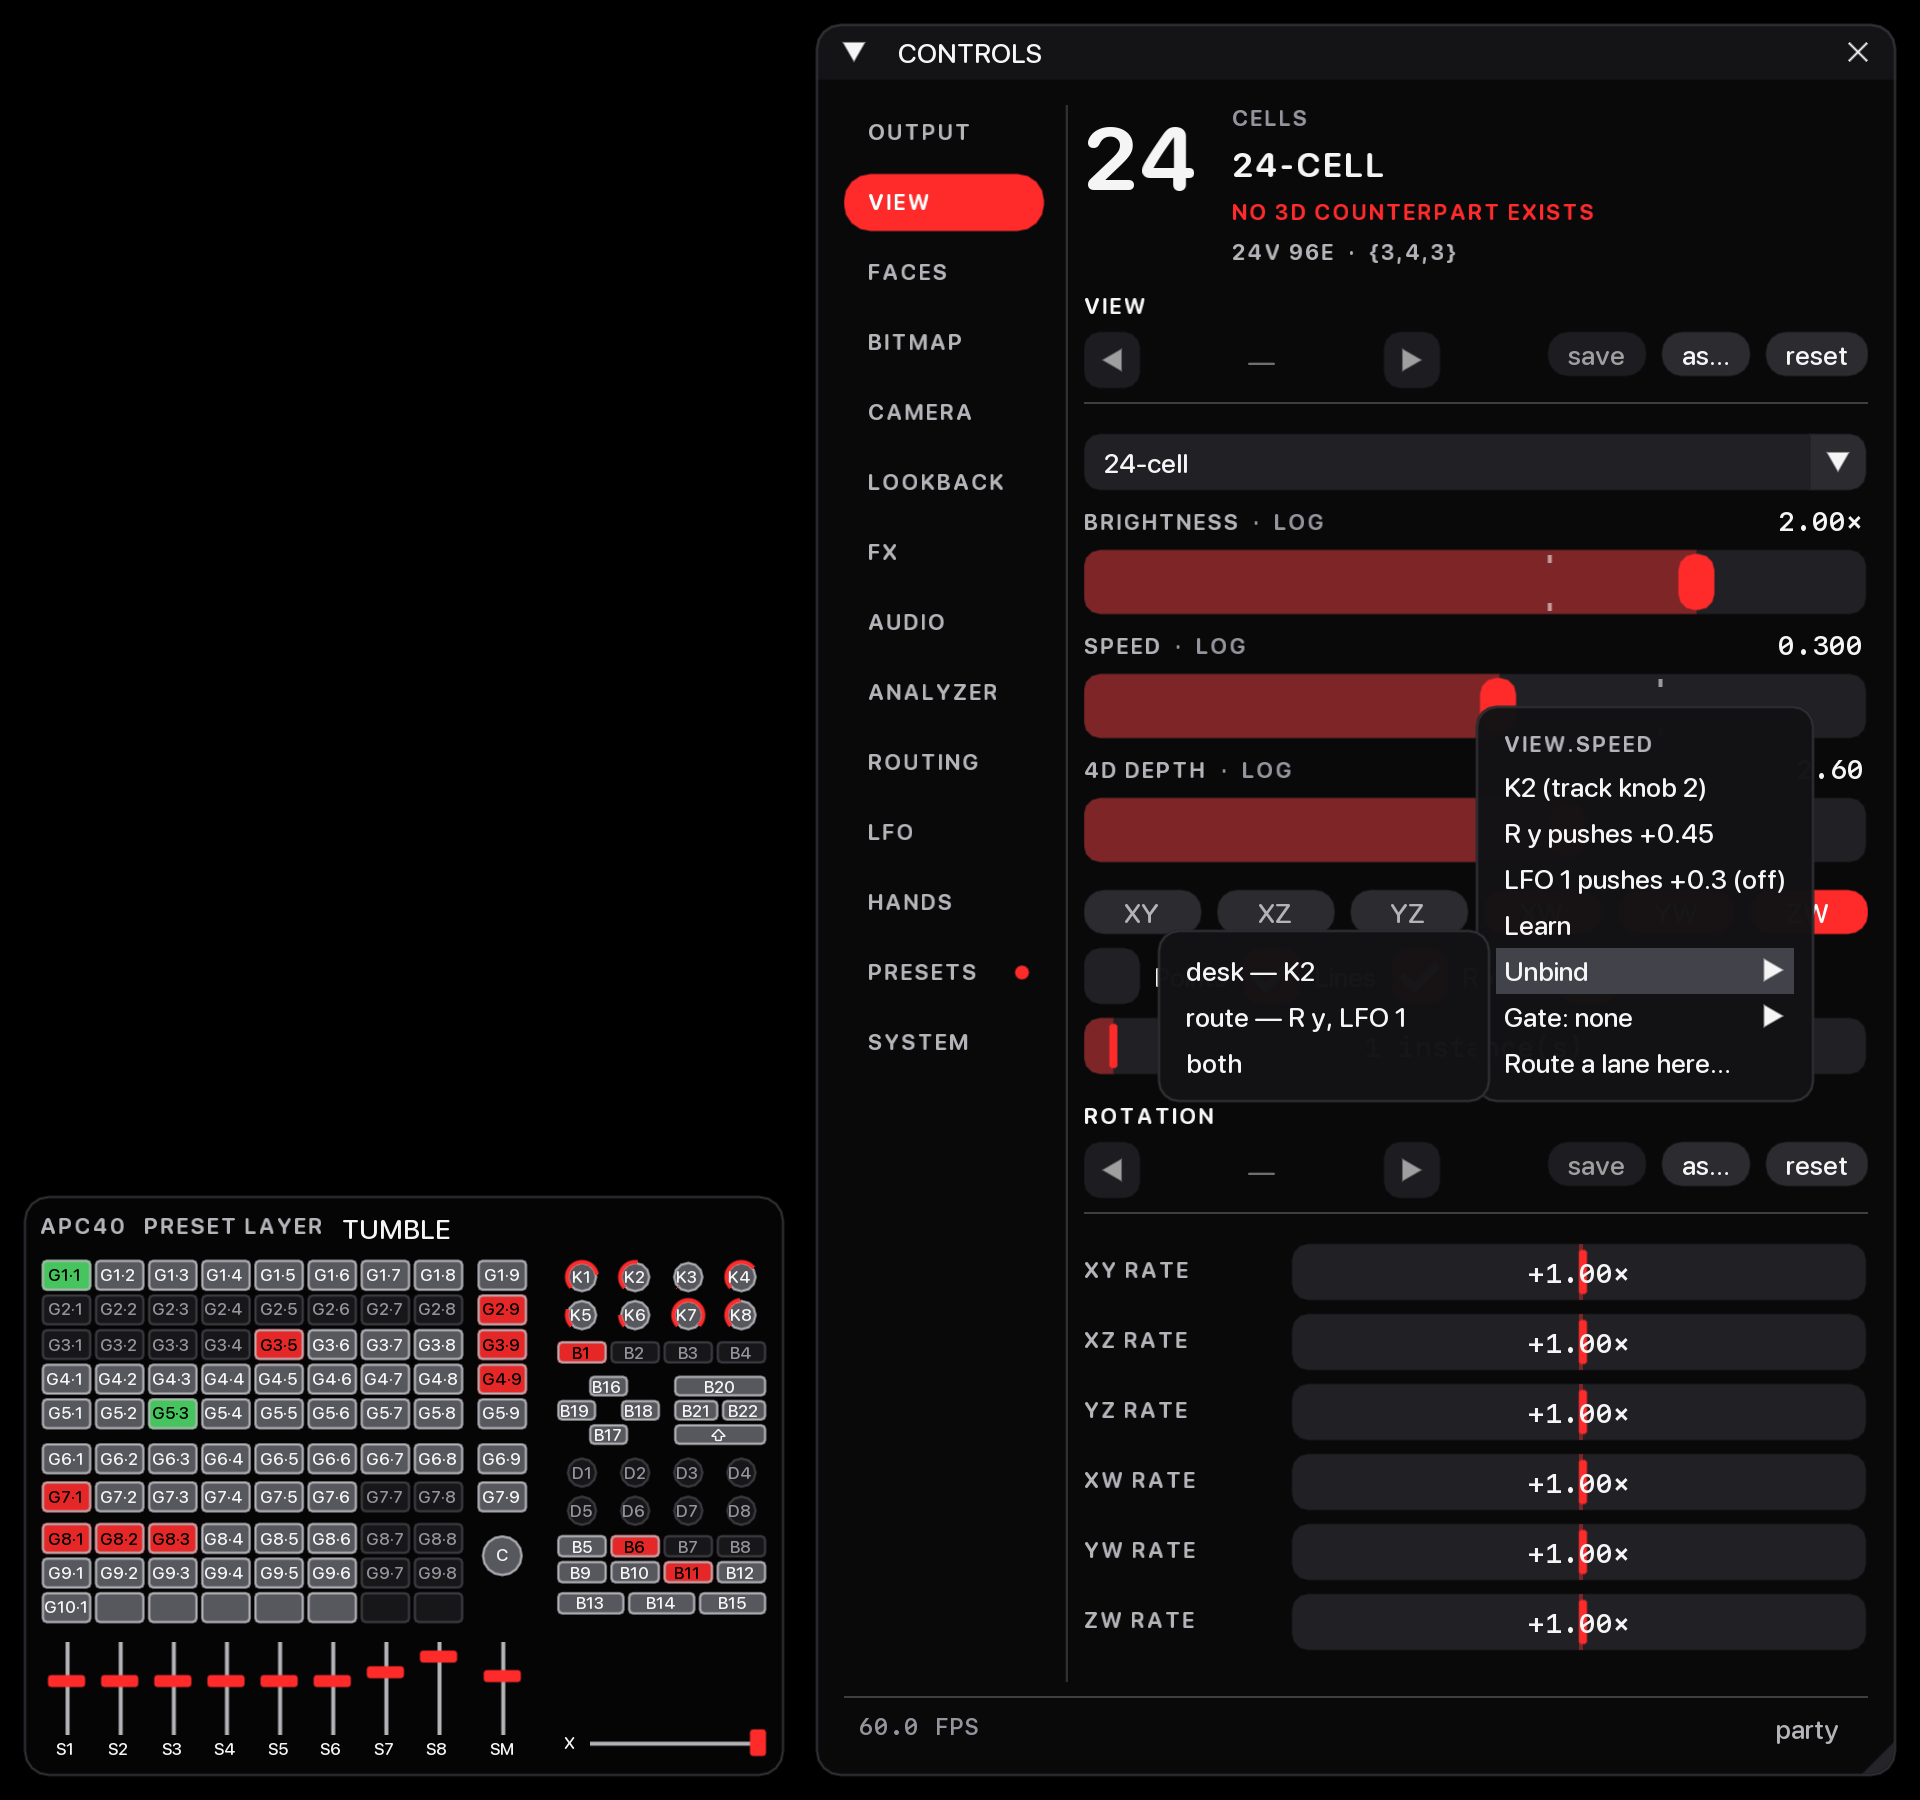
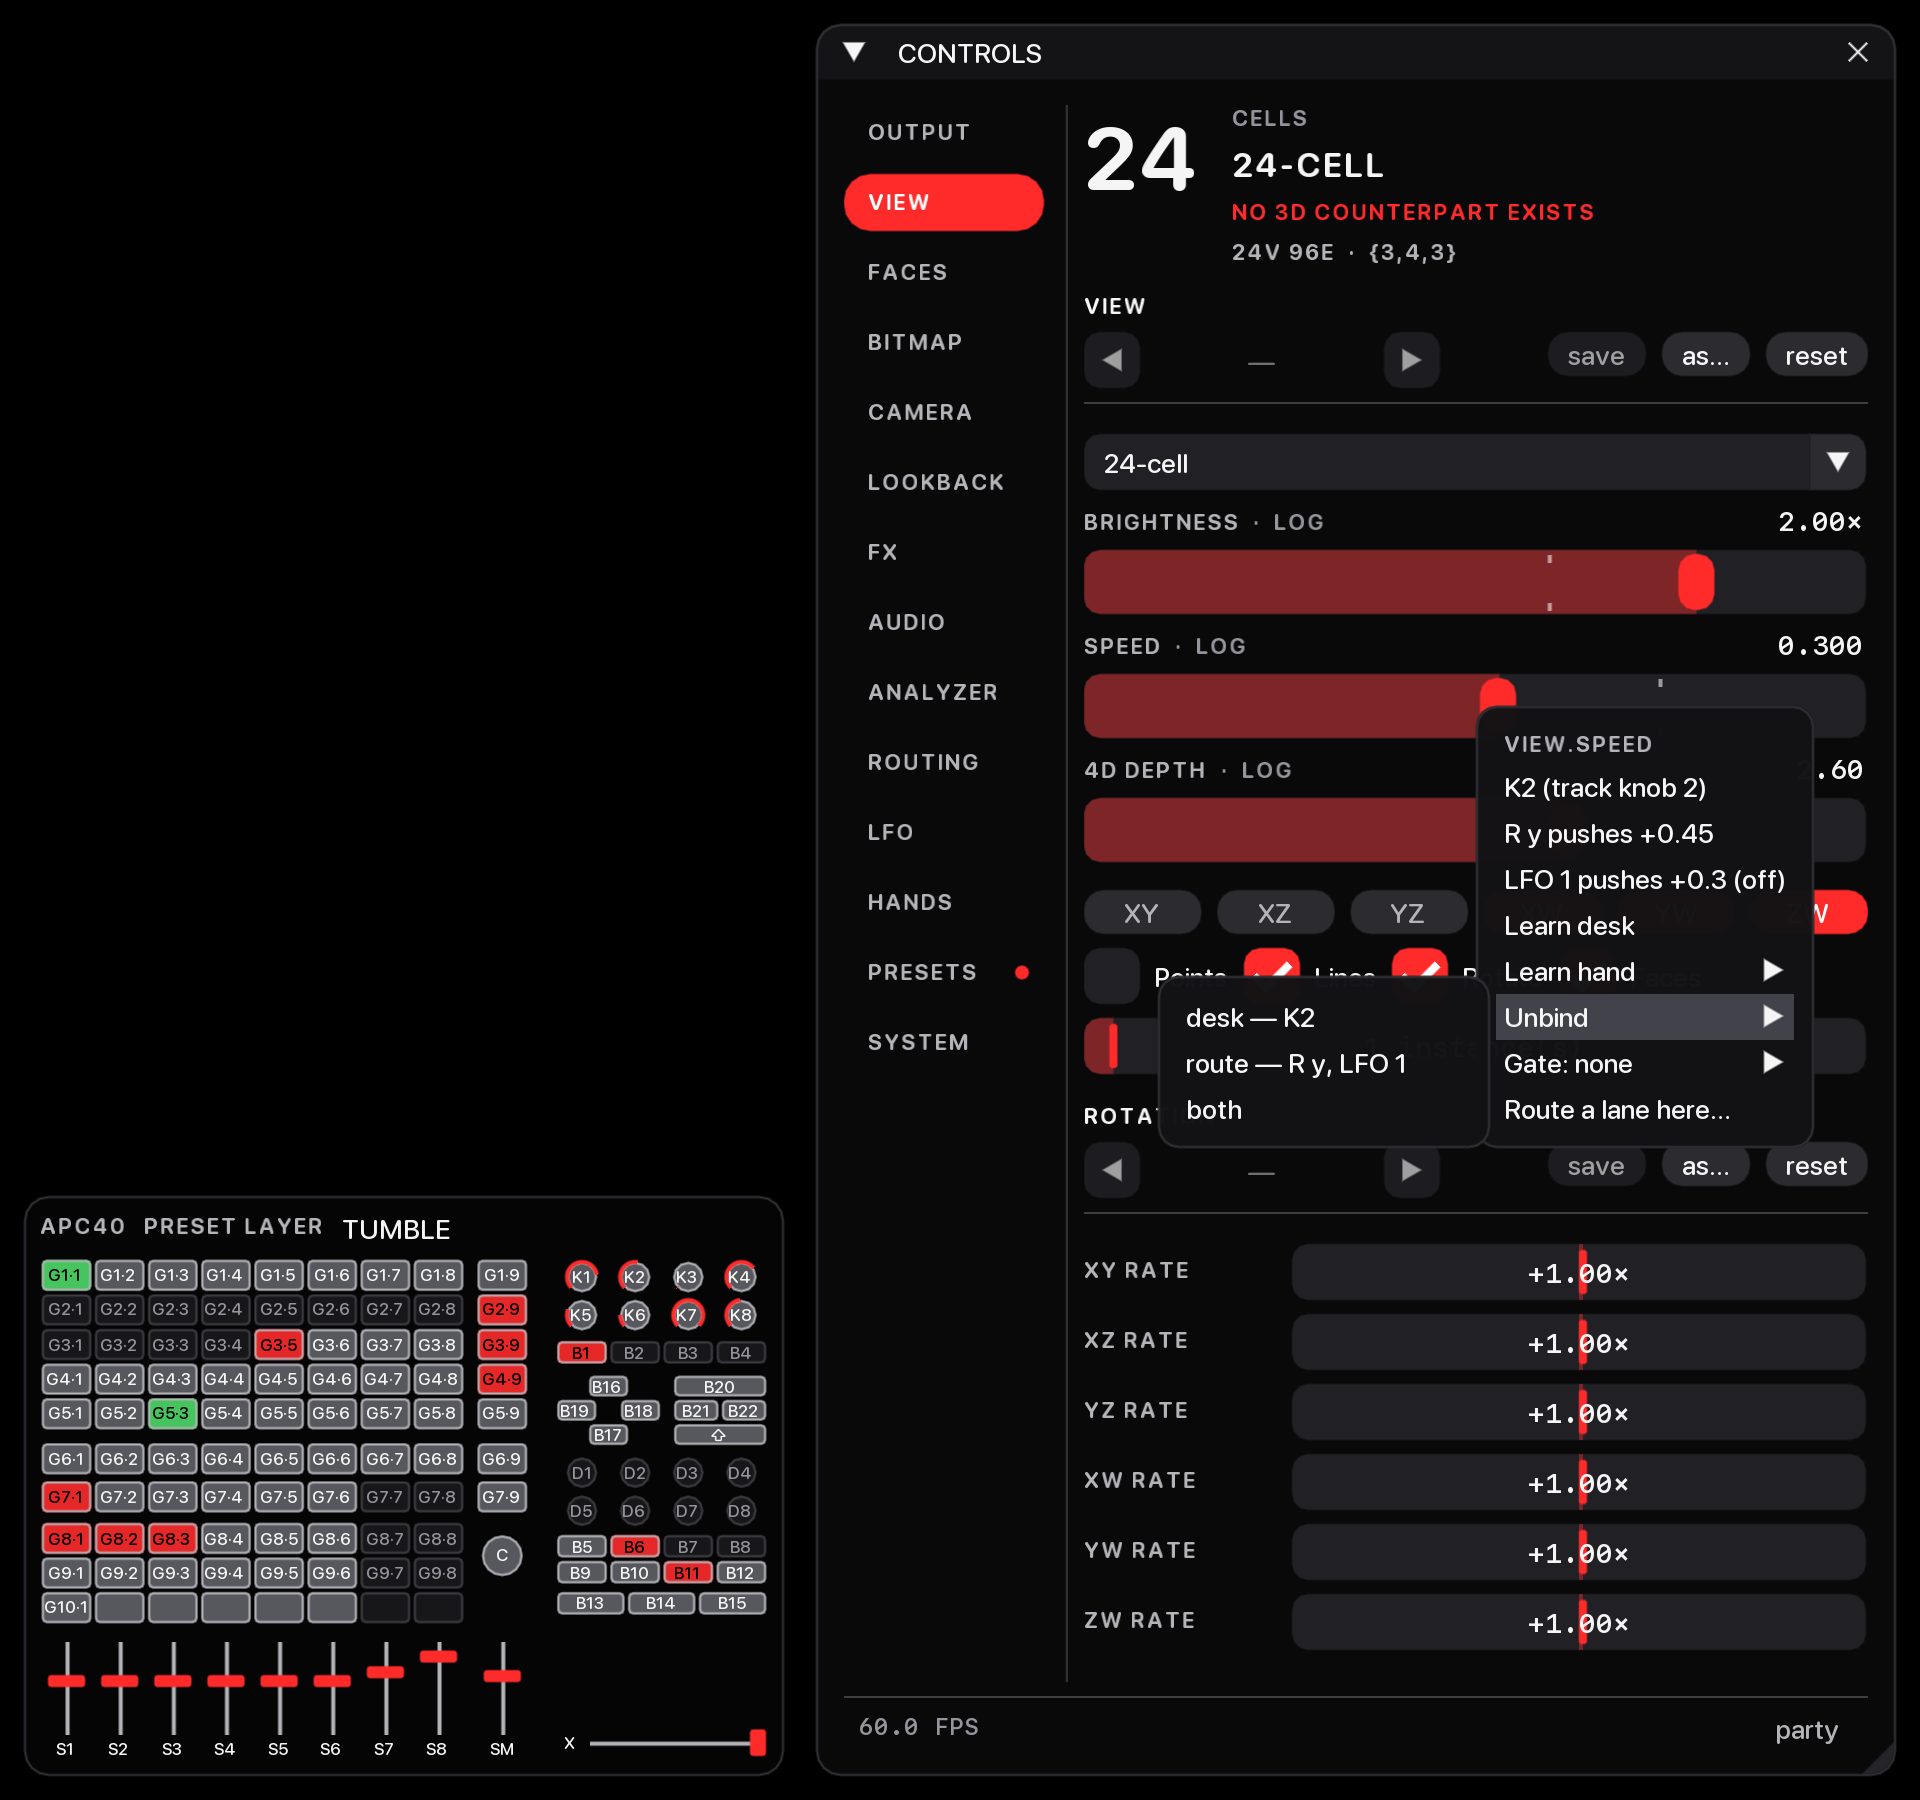
Plan 17 WP2: the Learn demo — the wrong-hand cases replayed, the desk through a learn, the menu
tools/learn_demo.py learn and tools/learn_shot.py learn / armed; the WP1 transcript and picture regenerated with the new Learn items.

Claude-Session: https://claude.ai/code/session_01Hj4u4h4MoQigGjJMCKHS42

Changed region(s): [[0.7188, 0.4978, 0.9375, 0.6222], [0.5938, 0.5289, 0.7188, 0.6222]]

diff --git a/hyperspace-python/tools/learn_demo.py b/hyperspace-python/tools/learn_demo.py
@@ -13,6 +13,12 @@ answered for it, so nothing here is a real right-click.
            route — the menu's lines, Unbind by kind and both, Ctrl+Z
            putting all of it back, a fader's param offering no Unbind —
            and the same again with no MIDI adapter on the panel.
+  learn    plan 17 WP2: the menu's Learn desk / Learn hand ▸ left / right;
+           the session's two wrong-hand cases replayed with a bare learn
+           and with "Learn hand ▸ left"; a knob bump during a hand learn
+           doing its own job; a fader and SHIFT working through a desk
+           learn; the global layer refusing and leaving it armed — with
+           the footer's line at each step.
 
 It always runs on a fresh temp home of its own (`undo_demo` sets
 `HYPERSPACE_HOME` before anything reads it): it cannot touch ~/Hyperspace.
@@ -26,6 +32,7 @@ from __future__ import annotations
 
 import sys
 from pathlib import Path
+from types import SimpleNamespace
 
 import undo_demo as demo
 
@@ -33,8 +40,9 @@ import pytest
 from imgui_bundle import imgui, implot
 from test_ui_shell import menu as read_menu
 
-from hyperspace import undo
+from hyperspace import learn, undo
 from hyperspace.library import PRESETS
+from hyperspace.params import Kind
 from hyperspace.routing import Binding
 from hyperspace.ui import Panel, apply_style, load_fonts
 
@@ -150,9 +158,166 @@ def unbind_demo() -> None:
     say(f"   the two transcripts are the same, line for line: {first == second}")
 
 
+def footer(r, panel) -> str:
+    """The footer's message slot as the panel draws it now (one frame of
+    the open page; the panel's clock is the demo's), with its colour."""
+    from hyperspace import ui
+
+    ui.time = SimpleNamespace(monotonic=lambda: r.t)         # MESSAGE_S in the demo's time
+    names = {(round(c.x, 3), round(c.y, 3)): n
+             for n, c in (("red", ui.RED), ("warning", ui.WARN), ("faint", ui.FAINT))}
+    seen: list[str] = []
+    real = imgui.text_colored
+
+    def text_colored(col, s):
+        if s.startswith("·  ") and not s.startswith("·  dim"):
+            seen.append(f"{s}   [{names.get((round(col.x, 3), round(col.y, 3)), '?')}]")
+        return real(col, s)
+    imgui.text_colored = text_colored
+    try:
+        imgui.new_frame()
+        panel.draw(demo.DT, 60.0)
+        imgui.end_frame()
+    finally:
+        imgui.text_colored = real
+    return seen[0] if seen else "(empty)"
+
+
+def step(r, panel, what: str, *msgs, hands=None, n: int = 1) -> None:
+    """One thing happens (desk messages, or hands in view), then the footer."""
+    r.ports.queue.extend(msgs)
+    for _ in range(n):
+        if hands is not None:
+            r.tracker.put(*hands)
+        demo.frames(r)
+    say(f"  {what}")
+    say(f"      footer: {footer(r, panel)}")
+
+
+def hand_cases(r, panel, pid: str) -> None:
+    """Plan 17 §1 row 1's two measured cases (tests/test_hands.py builds
+    the frames): replayed with a bare learn — any source, as every learn
+    was before — and with "Learn hand ▸ left"."""
+    from test_hands import _wrong_hand_cases
+
+    lrn, table = r.learn, r.router.table
+    for name, frames in _wrong_hand_cases().items():
+        say(f"  case: the left hand rolls on purpose while {name}")
+        for label, want in (("a bare Learn, as before", None), ("Learn hand ▸ left", "hand:left")):
+            for _ in range(40):                              # both hands out, the box empty
+                r.tracker.put()
+                demo.frames(r)
+            for _ in range(20):                              # the left hand, still, in the box
+                r.tracker.put(frames[0][0])
+                demo.frames(r)
+            lrn.arm(pid, want)
+            armed = footer(r, panel)
+            at = None
+            for k, (left, right) in enumerate(frames + [frames[-1]] * 60):
+                r.tracker.put(*[h for h in (left, right) if h is not None])
+                demo.frames(r)
+                if lrn.learning is None:
+                    at = k
+                    break
+            row = next(iter(table.routes_to(pid)), None)
+            say(f"    {label:<24} armed:  {armed}")
+            say(f"    {'':<24} frame {at}: {lrn.last}")
+            say(f"    {'':<24} the route: {row.source if row else None}")
+            lrn.unbind(pid, desk=False)                      # clear it for the next run
+            demo.settle(r)
+            footer(r, panel)                                 # …and let the footer forget it
+            r.t += 5.0
+        say()
+
+
+def learn_demo() -> None:
+    import mido
+
+    from hyperspace import apc40
+
+    r = demo.boot()
+    panel = panel_over(r)
+    demo.frames(r, 5)
+    r.undo.clear()
+    lrn, table, reg = r.learn, r.router.table, r.reg
+    # a param nothing performs and no knob maps in this preset, and the page that draws it
+    pid, page = next(
+        (p.id, k) for g, k in (("view", "view"), ("view", "faces"), ("camera", "camera"),
+                               ("fx", "fx")) for p in reg.group(g)
+        if p.kind is Kind.CONTINUOUS and p.modulatable and not learn.bound(table, p.id)[0] and not table.routes_to(p.id)
+        and read_menu(panel, pytest.MonkeyPatch(), p.id, k)[0])
+
+    def cc(n, v, ch=0):
+        return mido.Message("control_change", channel=ch, control=n, value=v)
+
+    def note(n, v=127):
+        return mido.Message("note_on" if v else "note_off", note=n, velocity=v)
+
+    def at(p):
+        return round(p.norm * 127)
+    say("Plan 17 WP2 — a learn that cannot pick the wrong source (headless: no window, no "
+        "device, no camera;")
+    say("the desk's messages are put on fake ports, the hands are synthetic, the menu and the "
+        "footer are read as text)")
+    say(f"home: <home>  ·  preset: {r.lib.current(PRESETS)}")
+    say()
+    say("1. The menu")
+    show_menu(r, panel, pid, page)
+    say()
+    say("2. The session's wrong hand — the two measured cases, each replayed twice")
+    hand_cases(r, panel, pid)
+    say("3. A knob bump during a hand learn does its own job")
+    bright = reg["view.bright"]
+    desk = [b.to_json() for b in table.desk()]
+    lrn.arm(pid, "hand:left")
+    step(r, panel, f"right-click {reg[pid].label} → Learn hand ▸ left", hands=())
+    b0 = bright.text()
+    step(r, panel, "turn K1 (track knob 1)", cc(0x30, at(bright)), cc(0x30, at(bright) - 30))
+    say(f"      Brightness {b0} → {bright.text()}  ·  still armed: {lrn.learning} / {lrn.want}"
+        f"  ·  desk rows changed: {[b.to_json() for b in table.desk()] != desk}")
+    lrn.arm(None)
+    step(r, panel, "click the footer's line (Learn.arm(None))")
+    say()
+    say("4. A fader and SHIFT work through a desk learn; the global layer refuses and it "
+        "stays armed")
+    lrn.arm(pid, "desk")
+    step(r, panel, f"right-click {reg[pid].label} → Learn desk")
+    post = reg["band.2.post"]
+    p0 = post.text()
+    step(r, panel, "move S3 (track fader 3)", cc(apc40.CC_FADER, at(post), 2),
+         cc(apc40.CC_FADER, min(127, at(post) + 25), 2))
+    say(f"      {post.label} (band 3) {p0} → {post.text()}  ·  still armed: {lrn.learning}")
+    step(r, panel, "press SHIFT", note(apc40.N_SHIFT), note(apc40.N_SHIFT, 0))
+    say(f"      layer: {table.layer}  ·  still armed: {lrn.learning}")
+    step(r, panel, "turn K1 (track knob 1)", cc(0x30, 64))
+    say(f"      refused: {lrn.refused}  ·  still armed: {lrn.learning}  ·  desk rows changed: "
+        f"{[b.to_json() for b in table.desk()] != desk}")
+    r.t += 4.5
+    step(r, panel, "4.5 s later")
+    step(r, panel, "press SHIFT again", note(apc40.N_SHIFT), note(apc40.N_SHIFT, 0))
+    say(f"      layer: {table.layer}  ·  still armed: {lrn.learning}")
+    step(r, panel, "turn D5 (device knob 5)", cc(0x14, 64))
+    row = next(b for b in table.desk() if b.target == pid)
+    say(f"      the row: {row.source} → {row.target}  op {row.op}  layer {row.layer}  "
+        f"feedback {row.feedback}  ·  armed: {lrn.learning}")
+    demo.settle(r)
+    demo.stack(r)
+    ctrl_z(r)
+    say(f"      desk rows as before the learn: {[b.to_json() for b in table.desk()] == desk}")
+    say()
+    say("5. With no MIDI adapter (panel.midi = None): Learn desk is still offered; until the "
+        "on-screen desk")
+    say("   takes clicks (plan 17 WP4) nothing can complete it, and the line says so")
+    panel.midi = None
+    r.t += 5.0
+    lrn.arm(pid, "desk")
+    step(r, panel, f"right-click {reg[pid].label} → Learn desk")
+    lrn.arm(None)
+
+
 def main() -> None:
     which = sys.argv[1] if len(sys.argv) > 1 else "unbind"
-    {"unbind": unbind_demo}[which]()
+    {"unbind": unbind_demo, "learn": learn_demo}[which]()
     if "--out" in sys.argv:
         out = Path(sys.argv[sys.argv.index("--out") + 1])
         out.parent.mkdir(parents=True, exist_ok=True)

diff --git a/hyperspace-python/tools/learn_shot.py b/hyperspace-python/tools/learn_shot.py
@@ -1,5 +1,5 @@
 #!/usr/bin/env python3
-"""The right-click menu with its Unbind submenu open, as a PNG (plan 17 WP1).
+"""The right-click menu with a submenu open, as a PNG (plan 17 WP1, WP2).
 
 Not the app: a **hidden** GLFW window with the panel drawn over the same
 headless objects `tools/undo_demo.py` builds — no render window, no MIDI
@@ -12,6 +12,8 @@ imgui the mouse is over its item, so the picture is the menu the panel's
 own code draws, in a real imgui popup.
 
   uv run python tools/learn_shot.py unbind   # → docs/plans/assets/17-learn-and-the-desk/menu-unbind.png
+  uv run python tools/learn_shot.py learn    # → …/menu-learn.png   (Learn desk · Learn hand ▸ left / right)
+  uv run python tools/learn_shot.py armed    # → …/learn-armed.png  (armed for the left hand: frame and footer)
 """
 
 # ruff: noqa: I001 — undo_demo is imported first, on purpose: it sets
@@ -40,6 +42,10 @@ OUT = Path(__file__).resolve().parents[1] / "docs" / "plans" / "assets" / "17-le
 # which shot: (the param whose menu opens, its page, the submenu to open, the file)
 SHOTS = {
     "unbind": ("view.speed", "view", "Unbind", "menu-unbind.png"),
+    # plan 17 WP2: Learn desk and Learn hand ▸ left / right…
+    "learn": ("view.speed", "view", "Learn hand", "menu-learn.png"),
+    # …and a learn armed for the left hand: the red frame and the footer's line (no menu)
+    "armed": ("view.speed", "view", None, "learn-armed.png"),
 }
 
 
@@ -117,13 +123,17 @@ def main() -> None:
     draw()
     if st["anchor"] is None:
         raise SystemExit(f"{pid} is not drawn on the {page} page")
-    st["mouse"] = st["anchor"]                        # the popup opens at the mouse
-    draw(3)
-    st["ask"] = True
-    draw(4)
-    if st["sub"] is not None:
-        st["mouse"] = st["sub"]                       # hover the submenu's item: it opens
-        draw(30)
+    if submenu is None:
+        r.learn.arm(pid, "hand:left")                 # what "Learn hand ▸ left" does
+        draw(4)
+    else:
+        st["mouse"] = st["anchor"]                    # the popup opens at the mouse
+        draw(3)
+        st["ask"] = True
+        draw(4)
+        if st["sub"] is not None:
+            st["mouse"] = st["sub"]                   # hover the submenu's item: it opens
+            draw(30)
     w, h = glfw.get_framebuffer_size(win)
     raw = GL.glReadPixels(0, 0, w, h, GL.GL_RGB, GL.GL_UNSIGNED_BYTE)
     px = np.frombuffer(raw, dtype=np.uint8).reshape(h, w, 3)[::-1]
